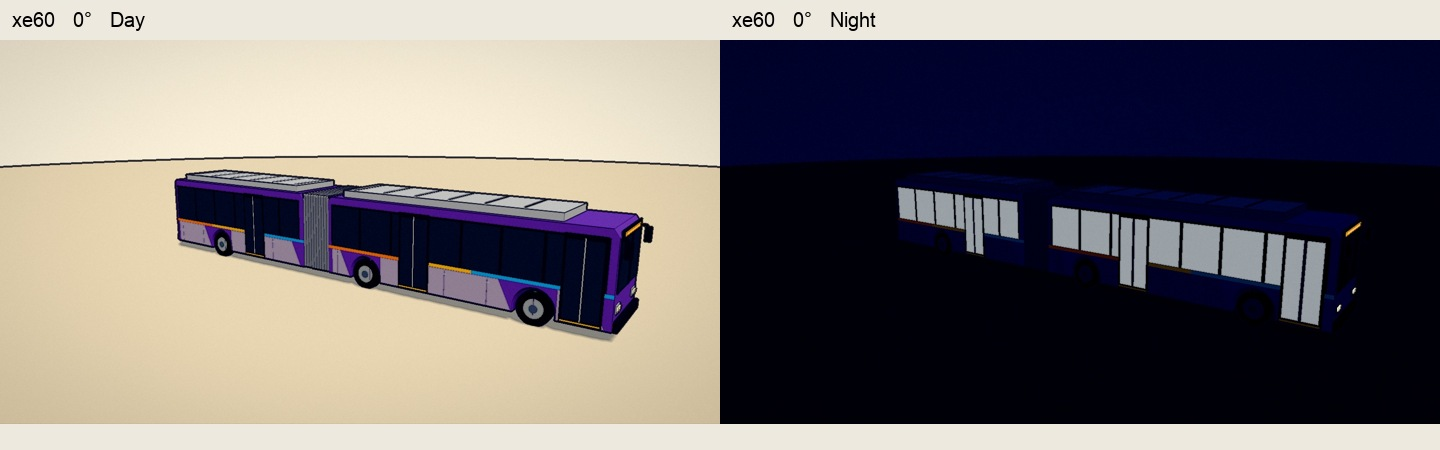
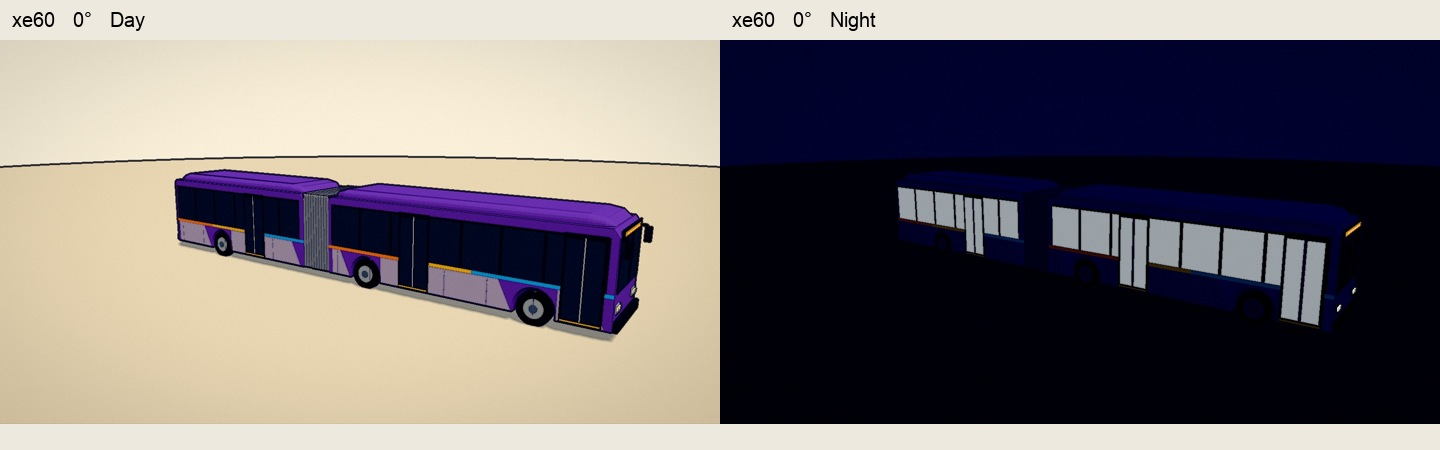
Shroud XE60 battery packs in rounded Rapid purple fairings

Changed region(s): [[0.125, 0.3733, 0.4375, 0.5289], [0.9062, 0.4356, 0.9375, 0.4978], [0.6875, 0.4044, 0.7188, 0.4356]]

diff --git a/web/src/vignette/xe60.ts b/web/src/vignette/xe60.ts
@@ -1,7 +1,7 @@
 /** MARTA Rapid XE60 study. Sources, measured and estimated dimensions: docs/marta-rapid-buses.md.
  * +z forward, y up, curb side -x. Front origin: front axle on ground; rear/bellows: hitch on ground. */
 import * as THREE from 'three';
-import { Builder } from './geom';
+import { Builder, loft } from './geom';
 import { busMaterial, RAPID_LIVERY } from './xcelsior';
 
 export const XE60_LAYOUT = {
@@ -72,16 +72,35 @@ function door(k: Kit,z: number) {
   k.panel(-1,z-.52,z+.52,.36,.4,C.yellow,0,1.35);
   k.panel(-1,z-.018,z+.018,.42,2.7,C.grey,0,1.35);
 }
-function roof(k: Kit,z0:number,z1:number,detail:BusDetail) {
-  // Electric battery/HVAC fairings, without the XN40's continuous CNG tank enclosure.
-  k.box(2.15,.24,z1-z0,0,3.14,(z0+z1)/2,C.grey);k.mark(0);
-  if(detail==='high') for(let z=z0+.35;z<z1;z+=1.2){k.box(1.8,.015,.045,0,3.268,z,C.black);k.mark(0);}
+/** A shallow crown with rolled shoulders and swept ends, as seen on 9001.
+ * The lower edge sits inside the body roof. Each rigid section carries its own cover. */
+function roofFairing(k: Kit, rear: number, front: number, detail: BusDetail) {
+  const shoulderSteps = detail === 'low' ? 2 : 4;
+  const profile = [[1, 0]];
+  for (const side of [1, -1]) {
+    for (let i = 0; i <= shoulderSteps; i++) {
+      const angle = (side === 1 ? i : shoulderSteps - i) * Math.PI / (2 * shoulderSteps);
+      profile.push([side * (.78 + .22 * Math.cos(angle)), .36 + .64 * Math.sin(angle)]);
+    }
+  }
+  profile.push([-1, 0]);
+
+  // Ease both ends into the roof. The battery cover tapers in width as well as height.
+  const stations = [
+    [rear, .82, .10], [rear + .16, .94, .70], [rear + .48, 1, 1],
+    [front - .65, 1, 1], [front - .22, .95, .75], [front, .82, .10],
+  ];
+  const rings = stations.map(([z, width, height]) => profile.map(([x, y]) =>
+    [x * 1.18 * width, 3.005 + y * .295 * height, z]));
+  loft(k, rings, profile.map(() => C.purple));
+  k.mark(0);
 }
 export function xe60Geometry(detail:BusDetail='high') {
   const f=new Kit(),r=new Kit();
   shell(f,-7.4,2.07,XE60_LAYOUT.front.axles,detail);shell(r,-8.21,-.6,XE60_LAYOUT.rear.axles,detail);
   door(f,1.27);door(f,-3.9);door(r,-3.2);
-  roof(f,-6.9,.6,detail);roof(r,-7.7,-1.1,detail);
+  roofFairing(f, -7.30, 1.88, detail);
+  roofFairing(r, -8.02, -.70, detail);
   // Broad front glass, upper destination strip and swept silver headlight cheeks.
   f.box(2.36,1.43,.03,0,2.03,2.085,C.glass);f.mark(0);
   f.box(2.25,.25,.035,0,2.83,2.087,C.black);f.mark(0);

diff --git a/docs/build-log.md b/docs/build-log.md
@@ -2963,3 +2963,7 @@ region in plan, so the falloff follows the tower's own masonry vertices.
 ### 2026-11-23 — Rapid bus glazing at night
 
 At the same lab camera, the lit windshield had made the XN40 cab as bright as the passenger compartment. The revised Rapid studies keep the windshield dark and show the amber destination sign above it. Both buses now use the XN40 purple and cooler passenger lighting, with the emission multiplier reduced from 0.6 to 0.4. On the XE60, individual panes sit inside a dark frame. [Compare the matched day and night views](marta-rapid-buses.md#review-views).
+
+### 2026-11-23 — XE60 roof fairings
+
+The photograph of 9001 shows a rounded purple roofline above the windshield. The lab’s exposed grey blocks broke that silhouette. Each section now carries a shallow fairing in the XN40 Rapid purple. Both covers stop 10 cm short of the bellows at their respective ends, leaving the joint clear at ±35°. The crown height and end tapers are estimates from the street-level photograph. At low detail the covers add 160 triangles, bringing the bus to 1,350 of its 1,500-triangle budget. [Matched straight and bent views with the reference](marta-rapid-buses.md#review-views).

diff --git a/docs/marta-rapid-buses.md b/docs/marta-rapid-buses.md
@@ -78,8 +78,8 @@ All captures use camera position `[-16,5.8,12]`, target `[0,1.6,0]`, vertical FO
 
 | Geometry | Triangles | Attribute bytes | Meshes per preview |
 | --- | ---: | ---: | ---: |
-| XE60 low | 1,190 | 157,080 | 3 |
-| XE60 high | 2,510 | 331,320 | 3 |
+| XE60 low | 1,350 | 178,200 | 3 |
+| XE60 high | 2,622 | 346,104 | 3 |
 | XN40 Rapid | 6,060 | 727,200 | 1 |
 
 Counts exclude shadow passes. The low XE60 fits the proposed 1,500-triangle phone budget. Future instanced draws can share one batch per section. Phone frame rate is unmeasured.
